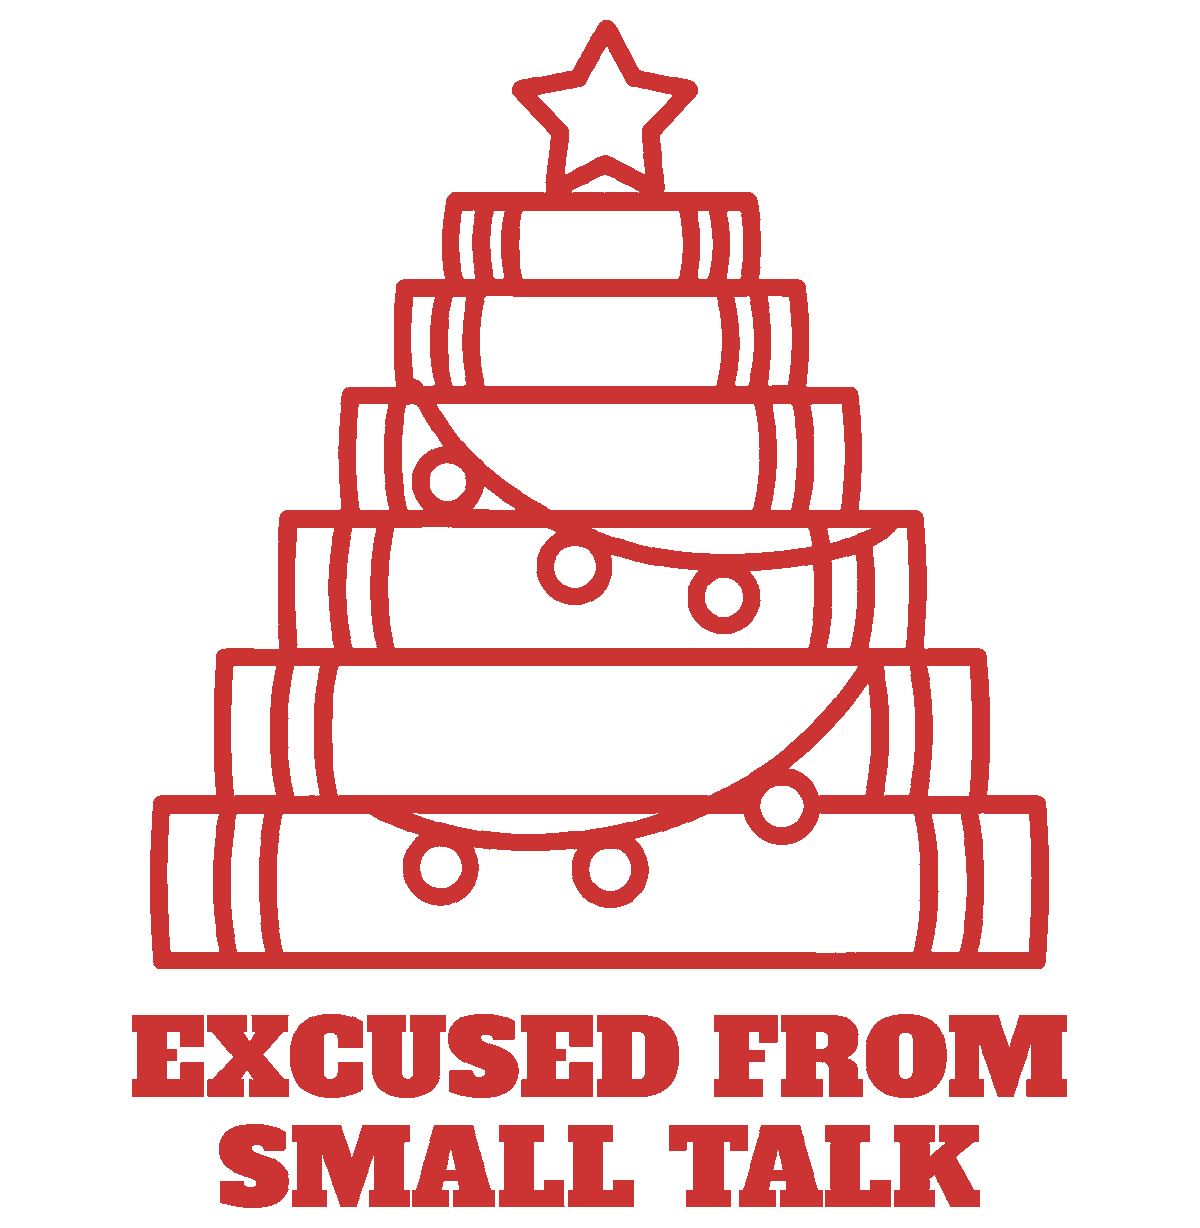
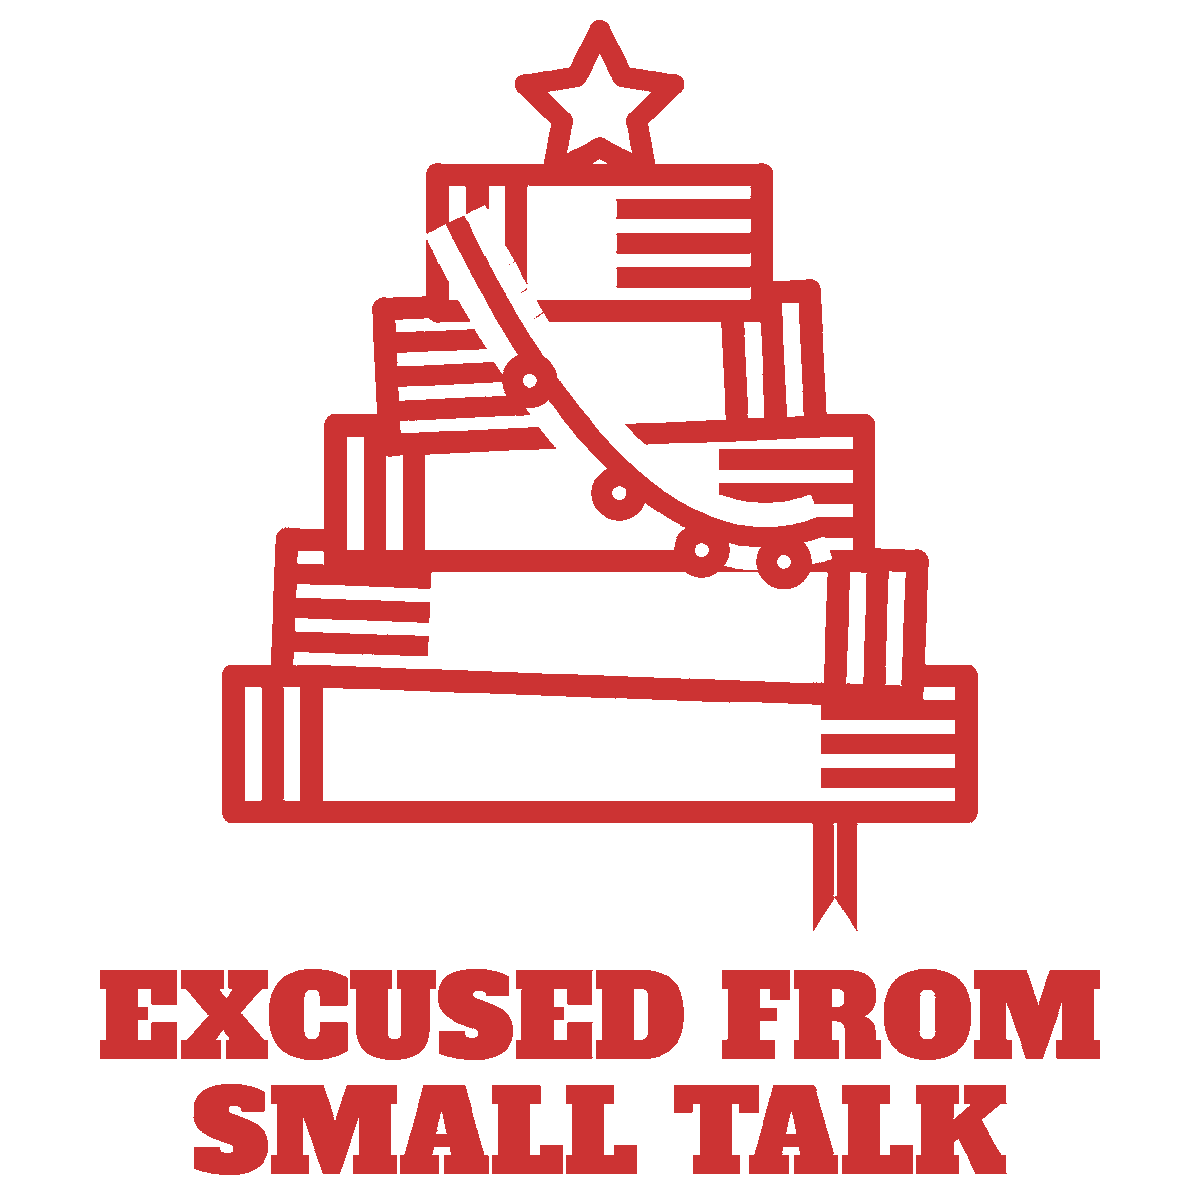
[B] review 469 Excused From Small Talk REDO: book cues

Changed region(s): [[0.0617, 0.0, 0.925, 0.9908]]

diff --git a/docs/pipeline/469-christmas-crew-excused-from-small-talk.md b/docs/pipeline/469-christmas-crew-excused-from-small-talk.md
@@ -1,4 +1,4 @@
-status: BUILDING [B] 2026-10-18 01:17Z
+status: REVIEW
 lane: B
 type: new
 id: 469
@@ -36,3 +36,4 @@ kd: 50
   1. R5.3.4 (reads instantly): the stack reads as a tiered cake or stacked boxes, not books. Nothing says "book" at 4 in: the blocks are plain rounded rectangles with one band each. Add book cues by code in emb-prep (no fal): 3–4 thin page-edge lines on the open end of every book, alternate the open end left/right, nudge 2 books a few degrees off-square so the stack looks hand-piled, and a short bookmark ribbon hanging from one book. Keep the line weight embroidery-safe (≥1.5 mm strokes, no gaps under 1 mm). If code can't make it read as books, one more Recraft try (this design's 3rd and last, Sam 2026-10-17 19:30) asking for "stack of hardcover books seen from the side, page edges visible"; if that fails, PARK it and say why.
   2. R3.7.1: after the fix, check EXCUSED FROM / SMALL TALK on the Navy mockup at phone size; if the letters still fill in, give the lettering the bigger share of the 4 in square (text about 1/3 of the height).
   3. Re-sync the embroidery file, new Sand + Navy + back mockups, cover via the R6.9 composite from the new Sand mockup (no fal), then REVIEW.
+- 2026-10-18 01:45 UTC builder [B]: REDO done (no fal). The book stack is now drawn by code (PIL, scripts-free, kept in designs/b/xmas-excused-emb.png): 5 spined hardcover books narrowing to the star, each with 2 spine bands on one end and 3 page-edge lines on the open end, the open end alternating left/right, books 2 and 4 tilted +2.0 and -2.5 degrees, a bookmark ribbon hanging below the base book, a small star and a lights swag with 4 round bulbs (halo gaps behind the swag). Strokes: outlines and page lines at least 1.69 mm p10 (no gap under 1 mm on page lines: 160 px books, 24 px lines). The lettering now takes the larger share: EXCUSED FROM / SMALL TALK in AlfaSlabOne at about 1/4 of the 3.33 x 3.85 in file (was about 1/6), phone-size read on the Navy mockup: legible, red on Navy lower contrast but readable. Still one thread #CC3333. Printful file 1088611175, pf-emb-sync 12/12, new Sand + Navy + back mockups swapped in place (variant links and alts kept). Cover: composite of the new stitch onto her chest from the existing photo (no fal), hair clear. Review sheet rebuilt, astro build OK. fal $0.

diff --git a/docs/intake-log.md b/docs/intake-log.md
@@ -1,3 +1,4 @@
+2026-10-18 01:25 UTC — [B] REVIEW #469 Excused From Small Talk embroidered crewneck REDO (coded book stack, bigger lettering, 12/12, composite cover; fal $0).
 2026-10-18 01:16 UTC — [B] REVIEW #498 Psalm 121 embroidered crewneck REDO (verse on two lines, 12/12, composite cover; fal $0).
 RUNNING director since 2026-10-18 01:13 UTC
 2026-10-18 01:10 UTC — [B] REVIEW #512 Golden Retriever I Brought You a Sock crewneck REDO (two-line joke, FW 1500, 12/12, composite cover; fal $0).
